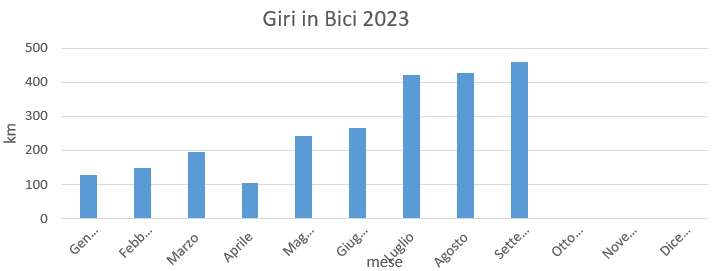
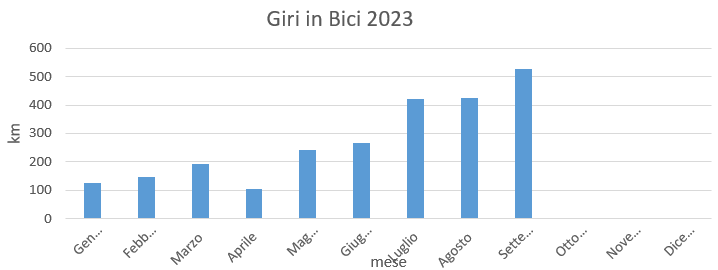
Add files via upload

diff --git a/Statistiche/Statistiche2023.html b/Statistiche/Statistiche2023.html
@@ -47,55 +47,55 @@
         <tr>
             <td>Gennaio</td>
             <td>127</td>
-            <td>5,32%</td>
+            <td>5,17%</td>
         </tr>
 
         <tr>
             <td>Febbraio</td>
             <td>148</td>
-            <td>6,20%</td>
+            <td>6,03%</td>
         </tr>
 
         <tr>
             <td>Marzo</td>
             <td>194</td>
-            <td>8,12%</td>
+            <td>7,90%</td>
         </tr>
 
         <tr>
             <td>Aprile</td>
             <td>103</td>
-            <td>4,31%</td>
+            <td>4,20%</td>
         </tr>
 
         <tr>
             <td>Maggio</td>
             <td>242</td>
-            <td>10,13%</td>
+            <td>9,86%</td>
         </tr>
 
         <tr>
             <td>Giugno</td>
             <td>265</td>
-            <td>11,10%</td>
+            <td>10,79%</td>
         </tr>
 
         <tr>
             <td>Luglio</td>
             <td>422</td>
-            <td>17,67%</td>
+            <td>17,19%</td>
         </tr>
 
         <tr>
             <td>Agosto</td>
             <td>426</td>
-            <td>17,84%</td>
+            <td>17,35%</td>
         </tr>
 
         <tr>
             <td>Settembre</td>
-            <td>461</td>
-            <td>19,30%</td>
+            <td>528</td>
+            <td>21,51%</td>
         </tr>
 
     </table>
@@ -106,10 +106,10 @@
 
     <br>
     <div class="colore">
-        <p>totale km 2.388
+        <p>totale km 2.455
             <img src="../Icone/traguardo.png">
         </p>
-        <p>km medi percorsi 61,23 km </p>
+        <p>km medi percorsi 61,38 km </p>
     </div>
     <br>
 

diff --git a/Statistiche.html b/Statistiche.html
@@ -83,7 +83,7 @@
             </td>
 
             <td>
-                21,80%
+                21,70%
             </td>
 
         </tr>
@@ -99,7 +99,7 @@
             </td>
 
             <td>
-                23,20%
+                23,10%
             </td>
         </tr>
 
@@ -113,7 +113,7 @@
             </td>
 
             <td>
-                33,8%
+                33,60%
             </td>
 
         </tr>
@@ -124,11 +124,11 @@
             </td>
 
             <td>
-                2.388
+                2.455
             </td>
 
             <td>
-                21,20%
+                21,70%
             </td>
 
         </tr>
@@ -158,11 +158,11 @@
 
     <div class="colore">
         <p>
-            totale km fatti 11.266
+            totale km fatti 11.333
             <img src="Icone/traguardo.png">
         </p>
 
-        <p>km medi percorsi 69,12 km </p>
+        <p>km medi percorsi 69,10 km </p>
 
     </div>
 

diff --git a/Estate/Estate2023.html b/Estate/Estate2023.html
@@ -255,6 +255,18 @@
             <td>km</td>
         </tr>
 
+
+        <tr>
+            <td>20 settembre</td>
+            <td>22</td>
+            <td><a
+                    href="https://www.komoot.com/it-it/tour/1316820584?ref=wtd&share_token=aAj0X1FSmmb3YZ6OBDeocWMpftim2zG2cpqgIO8Z8MUAEYYZ5Y">
+                    San Daniele + Castello di Fagagna e Villa Manin </a></td>
+            <td>67</td>
+            <td>km</td>
+        </tr>
+
+
     </table>
 
     <br>
@@ -265,10 +277,10 @@
     <br>
 
     <div class="colore">
-        <p> totale km 1.371
+        <p> totale km 1.438
             <img src="../Icone/traguardo.png">
         </p>
-        <p>km medi percorsi 65,29
+        <p>km medi percorsi 65,36
         </p>
     </div>
 </body>

diff --git a/Giri.html b/Giri.html
@@ -242,11 +242,11 @@
     <br>
     <div class="colore">
         <p>
-            totale km fatti 11.266
+            totale km fatti 11.333
             <img src="Icone/traguardo.png">
         </p>
 
-        <p>km medi percorsi 69,12 km </p>
+        <p>km medi percorsi 69,10 km </p>
 
     </div>
 

diff --git a/Estate.html b/Estate.html
@@ -104,7 +104,7 @@
                 </td>
     
                 <td>
-                    1.371
+                    1.438
                 </td>
             </tr>
 
